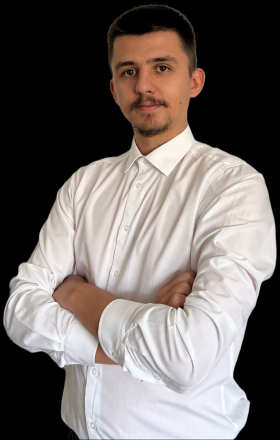
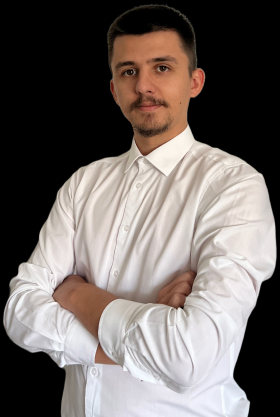
new photo

Changed region(s): [[0.0, 0.0624, 1.0, 1.0], [0.6571, 0.0312, 0.6857, 0.0624]]

diff --git a/src/components/SpeedGame/SpeedGame.css b/src/components/SpeedGame/SpeedGame.css
@@ -17,8 +17,16 @@
 .myPhoto {
   width: 280px;
   height: 340px;
-  background: lightcoral;
   position: relative;
+  background: black;
+  border: 2px solid var(--primaryColor);
+  box-shadow: 0 0 20px 1px var(--primaryColor);
+}
+
+.realPhoto {
+  width: 100%;
+  height: 100%;
+  object-fit: contain;
 }
 
 .typingText {
@@ -57,18 +65,6 @@
   color: white;
 }
 
-.myPhoto::before {
-  content: "";
-  width: 280px;
-  height: 340px;
-  background: transparent;
-  border: 2px solid var(--primaryColor);
-  position: absolute;
-  bottom: 4px;
-  left: 4px;
-  z-index: -1;
-}
-
 .realInfo {
   margin-top: 10px;
   text-align: center;
@@ -102,11 +98,6 @@
   .myPhoto {
     height: 440px;
   }
-  .myPhoto::before {
-    height: 440px;
-    bottom: 8px;
-    left: 8px;
-  }
 }
 
 @media screen and (min-width: 1024px) {
@@ -133,9 +124,6 @@
     padding-bottom: 30px;
   }
   .myPhoto {
-    height: 450px;
-  }
-  .myPhoto::before {
     height: 450px;
   }
 }

diff --git a/src/components/SpeedGame/SpeedGame.js b/src/components/SpeedGame/SpeedGame.js
@@ -53,7 +53,7 @@ const SpeedGame = () => {
       <h2 className="titleContact">CONTACT</h2>
       <div className="containerContact">
         <div className="myPhoto">
-          <img alt="Me" src={realPhoto}></img>
+          <img className="realPhoto" alt="Me" src={realPhoto}></img>
         </div>
         <div className="gameBox">
           <p className="typingText">
